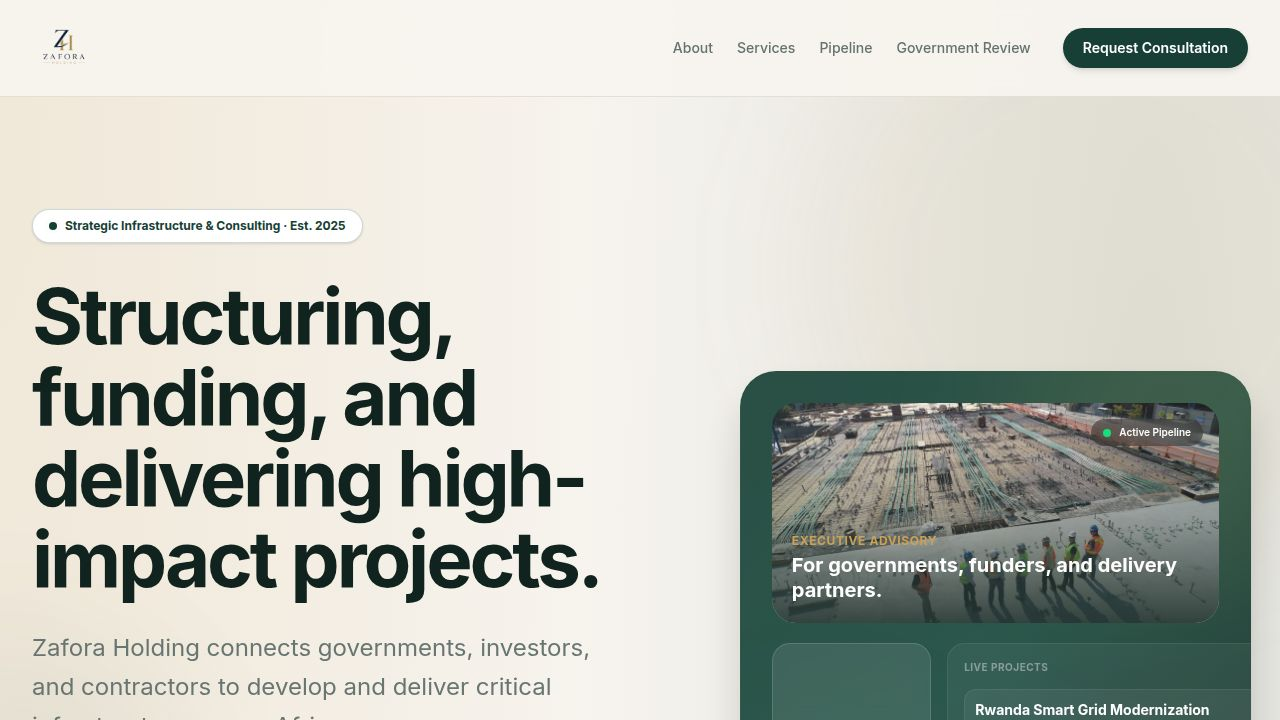
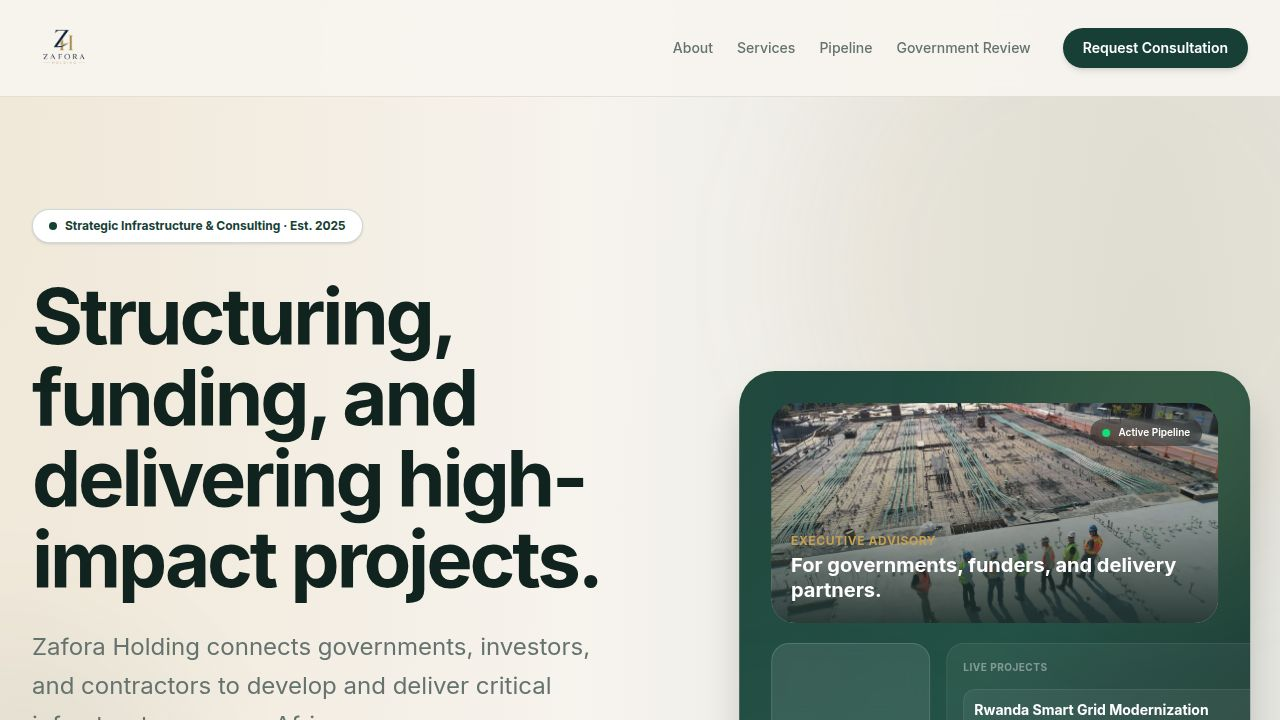
Update website navigation to standardize government review link
Standardize the government review URL to '/government-review' across the application, updating the router, layout, and navbar to ensure consistency and correct navigation.

Replit-Commit-Author: Agent
Replit-Commit-Session-Id: 901a45c5-0b14-46e5-aefa-5c568a212d3f
Replit-Commit-Checkpoint-Type: full_checkpoint
Replit-Commit-Event-Id: da8a2c0d-2784-43b3-8c34-c8fe3015790b
Replit-Commit-Screenshot-Url: https://storage.googleapis.com/screenshot-production-us-central1/abc7c4b9-a3ca-4590-bbb3-0e6454fd5e98/901a45c5-0b14-46e5-aefa-5c568a212d3f/nKy3dPx
Replit-Helium-Checkpoint-Created: true

diff --git a/artifacts/zafora/src/components/layout/Layout.tsx b/artifacts/zafora/src/components/layout/Layout.tsx
@@ -17,7 +17,7 @@ const NAV_LINKS = [
   { href: "/about", label: "About Us" },
   { href: "/services", label: "Services" },
   { href: "/projects", label: "Project Pipeline" },
-  { href: "/government", label: "Government Review" },
+  { href: "/government-review", label: "Government Review" },
   { href: "/submit", label: "Submit a Request" },
 ];
 

diff --git a/artifacts/zafora/src/components/layout/Navbar.tsx b/artifacts/zafora/src/components/layout/Navbar.tsx
@@ -8,7 +8,7 @@ const DEFAULT_LINKS = [
   { id: "about", label: "About", href: "/about", visible: true, openNewTab: false, order: 0 },
   { id: "services", label: "Services", href: "/services", visible: true, openNewTab: false, order: 1 },
   { id: "pipeline", label: "Pipeline", href: "/projects", visible: true, openNewTab: false, order: 2 },
-  { id: "gov", label: "Government Review", href: "/government", visible: true, openNewTab: false, order: 3 },
+  { id: "gov", label: "Government Review", href: "/government-review", visible: true, openNewTab: false, order: 3 },
 ];
 
 export default function Navbar() {

diff --git a/artifacts/zafora/src/App.tsx b/artifacts/zafora/src/App.tsx
@@ -26,6 +26,7 @@ function Router() {
             <Route path="/about" component={About} />
             <Route path="/services" component={Services} />
             <Route path="/projects" component={Projects} />
+            <Route path="/government-review" component={Government} />
             <Route path="/government" component={Government} />
             <Route path="/submit" component={Submit} />
             <Route component={NotFound} />